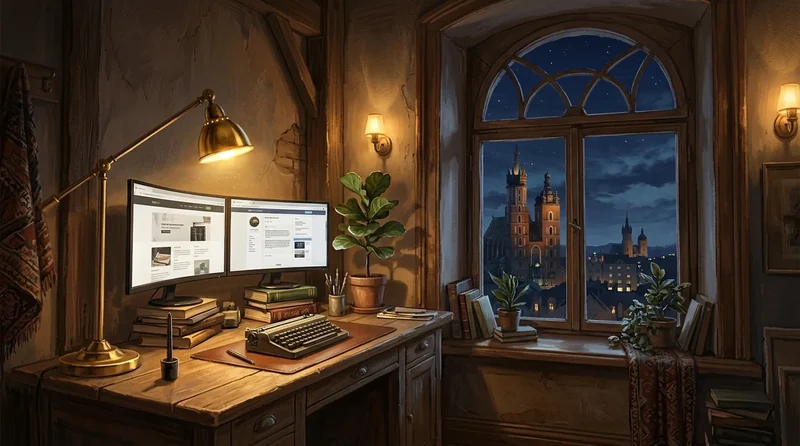
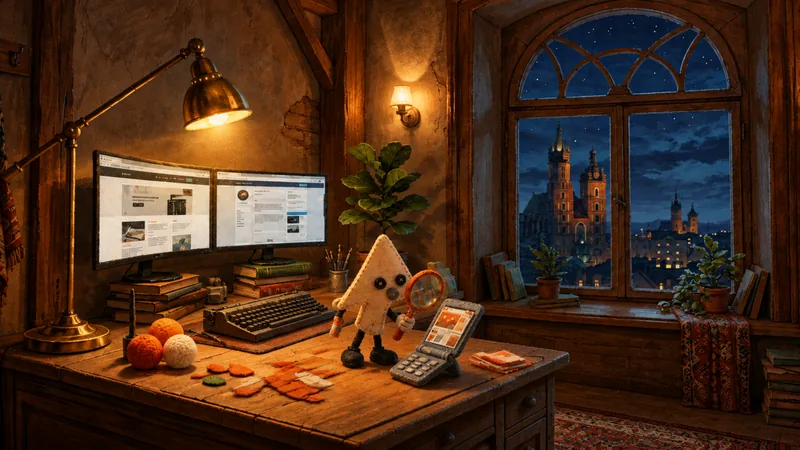
filcowa wersja strony, łączymy z kampanią

diff --git a/index.html b/index.html
@@ -147,7 +147,7 @@ p{margin:0}
 .studio{background:linear-gradient(180deg,#FBE3B0 0,#D9995A 10vh,#5A3B24 24vh,#2A221B 34vh,var(--tlo) 46vh);padding-block:30vh 0}
 .studio .hello{display:flex;flex-direction:column;gap:14px;padding-bottom:64px}
 .studio .hello .etykieta{color:var(--atrament-2)}
-.room{position:relative;margin:0;border-radius:14px;overflow:hidden;aspect-ratio:1376/768;max-width:100%}
+.room{position:relative;margin:0;border-radius:14px;overflow:hidden;aspect-ratio:16/9;max-width:100%}
 .room img{display:block;width:100%;height:100%;object-fit:cover;transform-origin:62% 45%;max-width:100%}
 .room-note{display:flex;align-items:flex-start;gap:8px;margin-top:10px;color:var(--atrament-2);font-size:14px}
 .about{display:grid;grid-template-columns:repeat(auto-fit,minmax(min(100%,420px),1fr));gap:48px 64px;padding-block:96px}
@@ -309,6 +309,7 @@ footer a{color:var(--c-atrament);display:inline-block;padding-block:4px;min-heig
   #flight:not(.rm) .scrim{background:linear-gradient(180deg,rgba(12,14,30,.92) 0%,rgba(12,14,30,.75) 42%,rgba(12,14,30,0) 62%)}
 }
 </style>
+<link rel="stylesheet" href="craft.css">
 </head>
 <body>
 
@@ -393,7 +394,7 @@ footer a{color:var(--c-atrament);display:inline-block;padding-block:4px;min-heig
     <div class="hello">
       <h2 class="display">Witaj w <span class="obw">pracowni.</span></h2>
     </div>
-    <figure class="room rv"><img src="img/pracownia.webp" srcset="img/pracownia-800.webp 800w, img/pracownia.webp 1376w" sizes="(max-width: 860px) 100vw, 1240px" loading="lazy" decoding="async" alt="Pracownia nocą: biurko z dwoma monitorami, mosiężna lampa i okno z widokiem na wieże Mariackiego" width="1376" height="768"></figure>
+    <figure class="room rv"><img src="img/pracownia.webp" srcset="img/pracownia-800.webp 800w, img/pracownia.webp 1920w" sizes="(max-width: 860px) 100vw, 1240px" loading="lazy" decoding="async" alt="Pracownia nocą: biurko z dwoma monitorami i mosiężną lampą, filcowy ludzik-kursor z lupą, telefon z filcu, kłębki włóczki i okno z widokiem na wieże Mariackiego" width="1920" height="1080"></figure>
     <div class="about">
       <div class="txt">
         <p class="etykieta rv">Kto za tym stoi</p>
@@ -591,6 +592,7 @@ footer a{color:var(--c-atrament);display:inline-block;padding-block:4px;min-heig
 
 <script type="application/ld+json">{"@context": "https://schema.org", "@type": "ProfessionalService", "name": "kreatywne-net", "legalName": "Małgorzata Czura", "description": "Projektowanie stron internetowych i wdrażanie agentów AI dla małych firm.", "taxID": "6793283584", "address": {"@type": "PostalAddress", "streetAddress": "ul. Bonarka 12/5", "postalCode": "30-415", "addressLocality": "Kraków", "addressCountry": "PL"}, "areaServed": {"@type": "Country", "name": "Polska"}, "hasOfferCatalog": {"@type": "OfferCatalog", "name": "Usługi", "itemListElement": [{"@type": "Offer", "itemOffered": {"@type": "Service", "name": "Strony internetowe"}}, {"@type": "Offer", "itemOffered": {"@type": "Service", "name": "Agenci AI"}}]}, "telephone": "+48798056998", "email": "kontakt@kreatywne-net.pl"}</script>
 <script type="application/ld+json">{"@context": "https://schema.org", "@type": "FAQPage", "mainEntity": [{"@type": "Question", "name": "Czym właściwie jest agent AI?", "acceptedAnswer": {"@type": "Answer", "text": "To program oparty na modelu językowym, który wykonuje konkretne zadanie: odpisuje na zapytania, ocenia leady i wpisuje je do CRM, przygotowuje szkic oferty albo odczytuje dane ze zdjęć i dokumentów. Działa na Twoich danych i według reguł, które razem ustalimy."}}, {"@type": "Question", "name": "Czy sam zmienię treści na stronie?", "acceptedAnswer": {"@type": "Answer", "text": "Tak. Dostajesz panel, w którym edytujesz teksty, zdjęcia, wpisy i podstrony bez dotykania kodu. Na koniec pokazujemy, jak z niego korzystać."}}, {"@type": "Question", "name": "Kto płaci za domenę i hosting?", "acceptedAnswer": {"@type": "Answer", "text": "Domena i hosting są zapisane na Ciebie, więc są Twoją własnością. Pomagamy je wybrać i wszystko konfigurujemy. Przy małych stronach hosting często mieści się w darmowym planie."}}, {"@type": "Question", "name": "Czy wystawiacie fakturę?", "acceptedAnswer": {"@type": "Answer", "text": "Tak, za każdą usługę wystawiamy fakturę na firmę Małgorzata Czura."}}]}</script>
+<script src="craft.js"></script>
 <script defer src="vendor/gsap.min.js"></script>
 <script defer src="vendor/ScrollTrigger.min.js"></script>
 <script defer src="vendor/lenis.min.js"></script>
@@ -774,47 +776,44 @@ function wingPath(ctx){
   ctx.beginPath();ctx.moveTo(10,0);ctx.bezierCurveTo(6,-34,-12,-70,-40,-94);
   ctx.quadraticCurveTo(-44,-70,-64,-72);ctx.quadraticCurveTo(-56,-52,-74,-42);ctx.quadraticCurveTo(-56,-28,-62,-12);ctx.quadraticCurveTo(-40,-10,-22,4);ctx.closePath();
 }
+/* Filcowy smok: ciało z planszy, falujące paskami, skrzydła machają wokół barku */
+const SMOK={body:loadImg('img/smok.webp'),open:loadImg('img/smok-ogien.webp'),
+  up:loadImg('img/smok-skrzydlo.webp'),up2:loadImg('img/smok-skrzydlo-dalsze.webp'),
+  dn:loadImg('img/smok-skrzydlo-dol.webp'),dn2:loadImg('img/smok-skrzydlo-dol-dalsze.webp')};
+// wymiary w jednostkach sceny (ciało 250 jedn. długości); punkty z plansz: pysk (1660,210), bark (1120,190) na 1738x602
+const SB={w:250,h:250*602/1738}, SBx0=-125, SBy0=-SB.h/2-5;
+const MOUTH={x:SBx0+1640/1738*SB.w,y:SBy0+238/602*SB.h};
+const SHOULDER={x:SBx0+1120/1738*SB.w,y:SBy0+196/602*SB.h};
+// klatki skrzydła w tej samej skali: jednostki na piksel planszy źródłowej, nasada skrzydła w pikselach planszy
+const WU=104/1023, WF={up:{w:1060,h:1023,rx:1018,ry:1012},dn:{w:1034,h:739,rx:986,ry:730}};
+function bodyWave(u,t){return Math.sin(u*6.2-t*2.6)*6*Math.pow(1-u,1.3);}
+function drawWing(ctx,img,f,ax,ay,sy,rot,alpha){
+  if(!ok(img)||alpha<=0.01)return;
+  ctx.save();ctx.globalAlpha*=alpha;ctx.translate(ax,ay);ctx.rotate(rot);ctx.scale(1,sy);
+  ctx.drawImage(img,-f.rx*WU,-f.ry*WU,f.w*WU,f.h*WU);ctx.restore();
+}
+// jedno uderzenie: ph=1 skrzydło w górze, ph=0 w dole; klatki przełączają się w środku ruchu
+function wings(ctx,far,ax,ay,ph){
+  const k=smooth(clamp((ph-.38)/.24,0,1)), rot=(1-ph)*.22-.04, sy=.86+.14*ph;
+  drawWing(ctx,far?SMOK.dn2:SMOK.dn,WF.dn,ax,ay,sy,rot*.6,1-k);
+  drawWing(ctx,far?SMOK.up2:SMOK.up,WF.up,ax,ay,sy,rot,k);
+}
 function drawDragon(ctx,x,y,s,t,fire){
   ctx.save();ctx.translate(x,y);ctx.scale(s,s);
-  const flap=Math.sin(t*4.6),fy=flap>0?flap:flap*.65;
-  const N=30,top=[],bot=[];let px=0,py=0,ang=0;
-  for(let i=0;i<=N;i++){
-    const u=i/N,xx=-130+u*190;
-    const yy=Math.sin(u*6.2-t*2.6)*7*Math.pow(1-u,1.2)-(u>.74?Math.pow(u-.74,2)*190:0)+Math.sin(t*4.6+1.2)*2;
-    const w=u<.6?.8+8.6*Math.pow(u/.6,1.3):(u<.86?9.4-(u-.6)/.26*5.2:4.2+(u-.86)/.14*1.4);
-    if(i>0){ang=Math.atan2(yy-py,xx-px);}
-    const nx=-Math.sin(ang),ny=Math.cos(ang);
-    top.push([xx+nx*w,yy+ny*w]);bot.push([xx-nx*w,yy-ny*w]);
-    if(i===Math.round(N*.6)){var sx=xx,sy=yy;}
-    px=xx;py=yy;
-  }
-  ctx.fillStyle='#0D0E24';
-  ctx.save();ctx.translate(sx+4,sy-4);ctx.scale(.86,fy*.9);wingPath(ctx);ctx.fill();ctx.restore();
-  ctx.fillStyle='#05060F';
-  ctx.beginPath();ctx.moveTo(top[0][0],top[0][1]);for(const p of top)ctx.lineTo(p[0],p[1]);for(let i=bot.length-1;i>=0;i--)ctx.lineTo(bot[i][0],bot[i][1]);ctx.closePath();ctx.fill();
-  // ogon
-  const t0=[(top[0][0]+bot[0][0])/2,(top[0][1]+bot[0][1])/2];
-  ctx.beginPath();ctx.moveTo(t0[0]+2,t0[1]);ctx.lineTo(t0[0]-10,t0[1]-7);ctx.lineTo(t0[0]-20,t0[1]);ctx.lineTo(t0[0]-10,t0[1]+7);ctx.closePath();ctx.fill();
-  // grzebień
-  for(let i=8;i<22;i+=2){const p=top[i];ctx.beginPath();ctx.moveTo(p[0]-3,p[1]);ctx.lineTo(p[0],p[1]-5);ctx.lineTo(p[0]+3,p[1]);ctx.fill();}
-  // łapy
-  const lp=bot[Math.round(N*.48)],fp=bot[Math.round(N*.7)];
-  ctx.beginPath();poly(ctx,[[lp[0]-3,lp[1]-2],[lp[0]-9,lp[1]+12],[lp[0]-2,lp[1]+13],[lp[0]+4,lp[1]-1]]);ctx.fill();
-  ctx.beginPath();poly(ctx,[[fp[0]-2,fp[1]-2],[fp[0]+2,fp[1]+10],[fp[0]+8,fp[1]+9],[fp[0]+4,fp[1]-1]]);ctx.fill();
-  // głowa
-  const E=[px,py];ctx.save();ctx.translate(E[0],E[1]);ctx.rotate(ang*.5);
-  ctx.beginPath();poly(ctx,[[-4,-6],[10,-6],[24,-2],[27,1],[14,3],[24,6],[12,8],[-4,6]]);ctx.fill();
-  ctx.beginPath();poly(ctx,[[-2,-5],[-14,-15],[4,-7]]);ctx.fill();
-  ctx.beginPath();poly(ctx,[[2,-6],[-6,-17],[8,-7]]);ctx.fill();
-  ctx.fillStyle='#FFB14A';ctx.beginPath();ctx.arc(9,-2,1.4,0,6.283);ctx.fill();
-  if(fire>0){
-    for(let i=0;i<16;i++){const u=i/15,fx=26+u*70*fire,fyy=3+Math.sin(t*20+i)*4*u;const r=(3+u*11)*fire;
-      const g=ctx.createRadialGradient(fx,fyy,0,fx,fyy,r);g.addColorStop(0,'rgba(255,240,200,'+(.9*(1-u))+')');g.addColorStop(.5,'rgba(255,150,50,'+(.7*(1-u))+')');g.addColorStop(1,'rgba(255,80,20,0)');
-      ctx.fillStyle=g;ctx.beginPath();ctx.arc(fx,fyy,r,0,6.283);ctx.fill();}
-  }
-  ctx.restore();
-  // bliższe skrzydło
-  ctx.fillStyle='#05060F';ctx.save();ctx.translate(sx,sy);ctx.scale(1,fy);wingPath(ctx);ctx.fill();ctx.restore();
+  const ph=(Math.sin(t*4.6)+1)/2, ph2=(Math.sin(t*4.6-.35)+1)/2;
+  const su=(SHOULDER.x-SBx0)/SB.w, sy=bodyWave(su,t)-(ph-.5)*2.4; // ciało lekko unosi się przy uderzeniu
+  wings(ctx,true,SHOULDER.x+10,SHOULDER.y+sy-4,ph2);
+  // ciało: przy zionięciu płynnie podmieniamy na planszę z otwartym pyskiem
+  const lift=-(ph-.5)*2.4, k=ok(SMOK.open)?smooth(clamp(fire*2.2,0,1)):0;
+  function body(B,al){if(!ok(B)||al<=.01)return;const N=36,iw=B.naturalWidth,ih=B.naturalHeight;ctx.save();ctx.globalAlpha*=al;
+    for(let i=0;i<N;i++){const u0=i/N,u1=(i+1)/N,dy=bodyWave((u0+u1)/2,t)+lift;
+      ctx.drawImage(B,u0*iw,0,(u1-u0)*iw+1,ih,SBx0+u0*SB.w,SBy0+dy,(u1-u0)*SB.w+.6,SB.h);}ctx.restore();}
+  body(SMOK.body,1);body(SMOK.open,k); // otwarty pysk nakładamy na zamknięty, żeby nic nie prześwitywało
+  if(fire>0){const mx=MOUTH.x+2,my=MOUTH.y+bodyWave(.97,t)-(ph-.5)*2.4;
+    for(let i=0;i<22;i++){const u=i/21,fx=mx+u*130*fire,fyy=my+u*16+Math.sin(t*20+i)*5*u;const r=(4+u*20)*fire;
+      const g=ctx.createRadialGradient(fx,fyy,0,fx,fyy,r);g.addColorStop(0,'rgba(255,245,215,'+(.95*(1-u*.8))+')');g.addColorStop(.45,'rgba(255,160,60,'+(.8*(1-u*.7))+')');g.addColorStop(1,'rgba(255,80,20,0)');
+      ctx.fillStyle=g;ctx.beginPath();ctx.arc(fx,fyy,r,0,6.283);ctx.fill();}}
+  wings(ctx,false,SHOULDER.x,SHOULDER.y+sy,ph);
   ctx.restore();
 }
 

diff --git a/craft.css b/craft.css
@@ -1,0 +1,26 @@
+/* ===== kreatywne-net: filcowe akcenty z kampanii  ===== */
+.felt{position:absolute;display:block;background:center/contain no-repeat;pointer-events:none}
+
+/* usługi: monitor i robot przy biurku na kartach */
+.svc{position:relative;overflow:visible!important}
+.services{margin-top:110px}
+.f-monitor{width:190px;aspect-ratio:713/682;top:-96px;right:-26px;transform:rotate(6deg);filter:drop-shadow(0 14px 14px rgba(0,0,0,.35))}
+.f-robot{width:200px;aspect-ratio:1023/1644;top:-150px;right:-30px;transform:rotate(-3deg);filter:drop-shadow(0 14px 14px rgba(0,0,0,.35))}
+@media(min-width:900px){#uslugi .sec-head > p{margin-right:210px}}
+@media(max-width:899px){.services{margin-top:80px}.f-monitor{width:120px;top:-70px;right:-8px}.f-robot{width:130px;top:-112px;right:-8px}}
+
+/* kontakt: oryginalne tło i kabel, tylko filcowy robot */
+#kontakt .lead{position:relative}
+.k-robot{width:110px;aspect-ratio:627/961;right:6%;bottom:-30px;transform:rotate(7deg);filter:drop-shadow(0 12px 12px rgba(0,0,0,.45))}
+@media(max-width:899px){.k-robot{width:76px;right:0;bottom:-16px}}
+
+/* wyróżnione pola: karty z gęstego, grafitowego filcu */
+.fact{background:#26241F url(img/craft/filc-karta-2.webp) 0 0/512px 512px!important}
+.svc,.step{background:#1B1A17 url(img/craft/filc-karta-1.webp) 0 0/512px 512px!important}
+.fact,.svc,.step{box-shadow:inset 0 1px 0 rgba(255,255,255,.05),inset 0 -3px 8px rgba(0,0,0,.35),0 8px 20px rgba(0,0,0,.28)}
+
+/* formularz kontaktowy z filcu */
+form.card{background:#26241F url(img/craft/filc-karta-2.webp) 0 0/512px 512px;backdrop-filter:none;-webkit-backdrop-filter:none;
+  box-shadow:inset 0 1px 0 rgba(255,255,255,.05),inset 0 -3px 8px rgba(0,0,0,.35),0 14px 34px rgba(0,0,0,.45)}
+form.card input,form.card select,form.card textarea{background:rgba(17,16,14,.78);border-color:rgba(189,185,174,.38);box-shadow:inset 0 2px 4px rgba(0,0,0,.35)}
+form.card input:focus,form.card select:focus,form.card textarea:focus{border-color:var(--c-energia)}

diff --git a/craft.js b/craft.js
@@ -1,0 +1,15 @@
+// kreatywne-net: filcowe akcenty z kampanii 
+(function () {
+  const $ = (s, r) => (r || document).querySelector(s);
+  const $$ = (s, r) => [...(r || document).querySelectorAll(s)];
+  function felt(src, cls) { const i = document.createElement('i'); i.className = 'felt ' + cls; i.style.backgroundImage = 'url(img/craft/' + src + ')'; i.setAttribute('aria-hidden', 'true'); return i; }
+
+  // usługi: filcowy monitor przy stronach www, robot przy biurku przy agentach AI
+  const svcs = $$('.svc');
+  if (svcs[0]) svcs[0].appendChild(felt('monitor.webp', 'f-monitor'));
+  if (svcs[1]) svcs[1].appendChild(felt('robot-biurko.webp', 'f-robot'));
+
+  // kontakt: filcowy robot przy pomarańczowym kablu
+  const lead = $('#kontakt .lead');
+  if (lead) lead.appendChild(felt('robot.webp', 'k-robot'));
+})();
